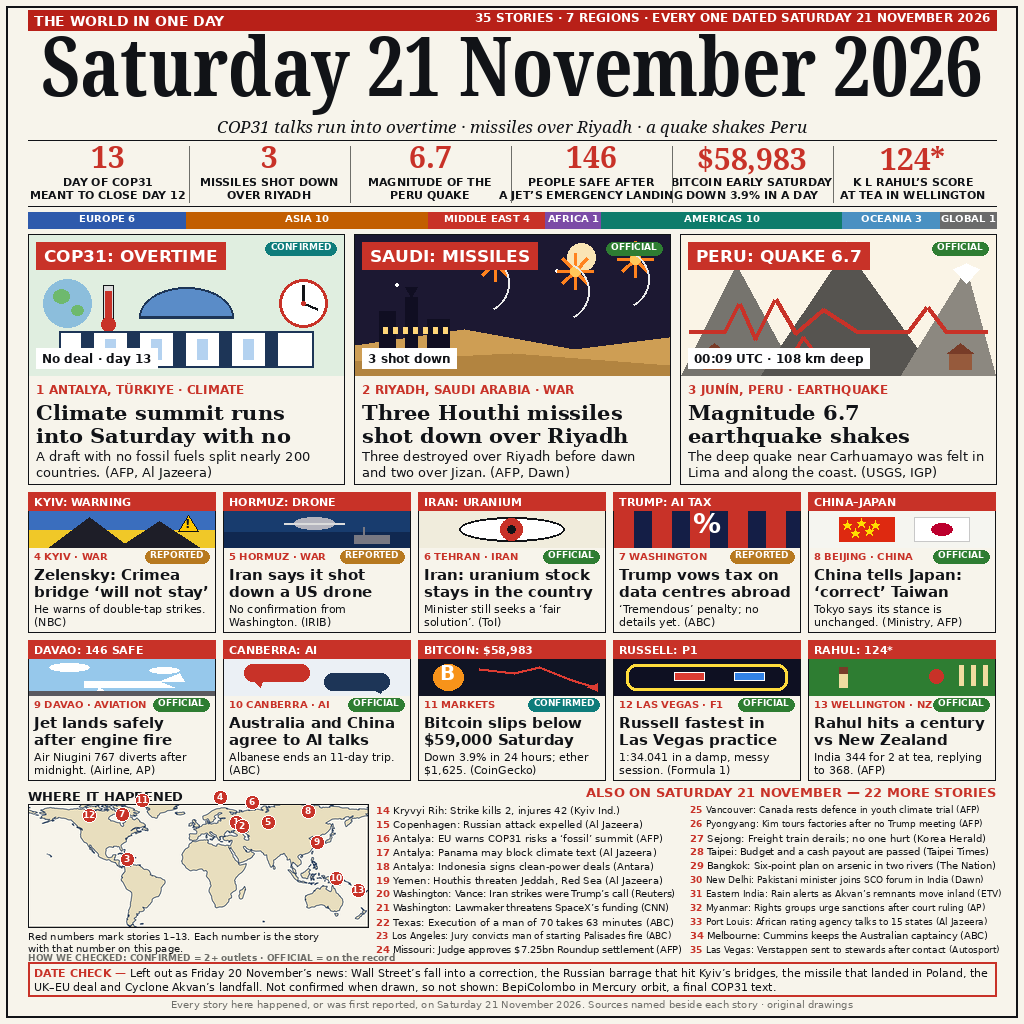
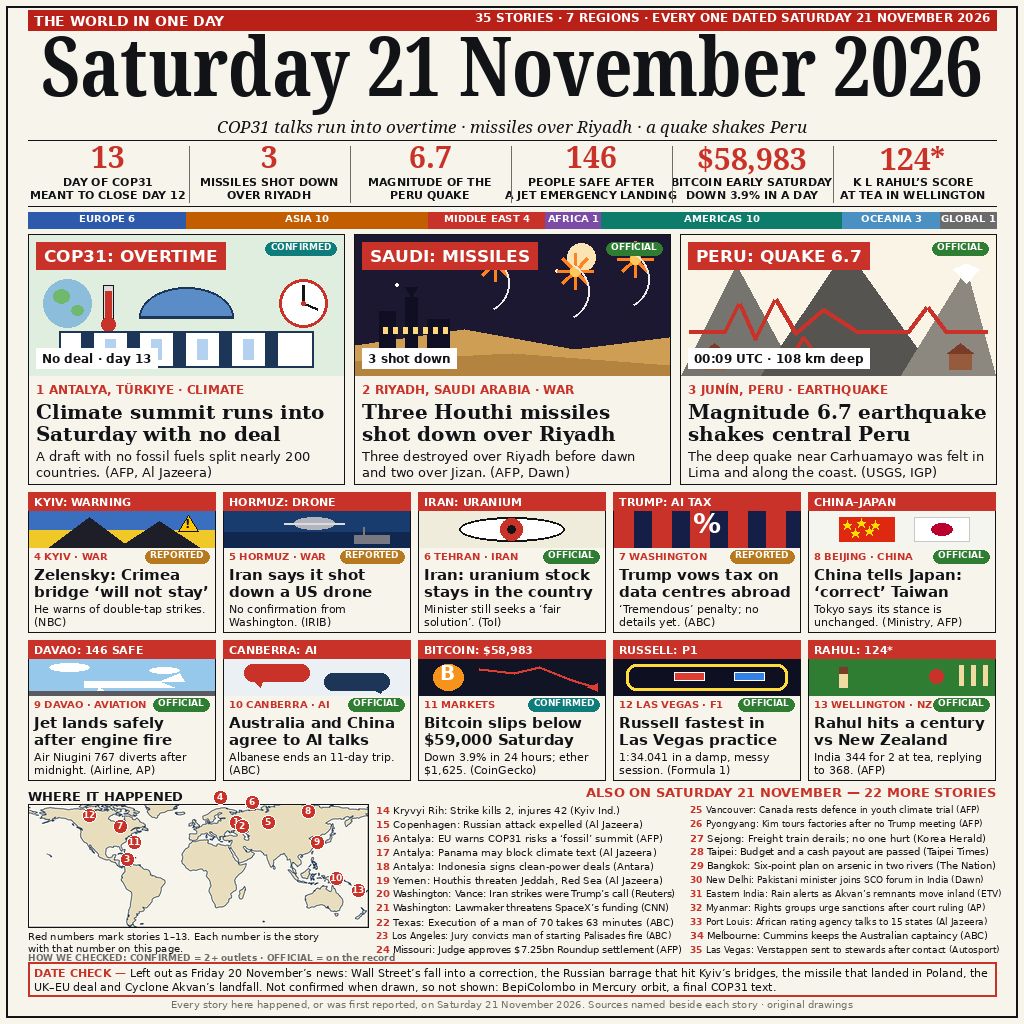
v7.1: hero headlines 20px (no truncation), 146 caption padded, pin 11 to New York

diff --git a/render.py b/render.py
@@ -8,7 +8,8 @@
   items (BepiColombo orbit, final COP31 text).
 - Verification badges OFFICIAL / CONFIRMED / REPORTED + sources on every
   main story. Masthead in Noto Serif ExtraCondensed Bold (auto-fit to 82px).
-  Deterministic. DO NOT SUBMIT before user ACC.
+  Hero headlines at 20px so all three fit two lines whole. Deterministic.
+  DO NOT SUBMIT before user ACC.
 """
 from PIL import Image, ImageDraw, ImageFont
 import math
@@ -339,7 +340,7 @@ NUMBERS = [
     ("13", "DAY OF COP31", "MEANT TO CLOSE DAY 12"),
     ("3", "MISSILES SHOT DOWN", "OVER RIYADH"),
     ("6.7", "MAGNITUDE OF THE", "PERU QUAKE"),
-    ("146", "PEOPLE SAFE AFTER", "A JET\u2019S EMERGENCY LANDING"),
+    ("146", "PEOPLE SAFE AFTER", "A JET EMERGENCY LANDING"),
     ("$58,983", "BITCOIN EARLY SATURDAY", "DOWN 3.9% IN A DAY"),
     ("124*", "K L RAHUL\u2019S SCORE", "AT TEA IN WELLINGTON"),
 ]
@@ -358,8 +359,8 @@ REGIONS = [
 # map pins 1-13 (pixel positions on the 340x123 map, nudged to avoid overlap)
 PINS = [
     (1, 236, 822), (2, 242, 826), (3, 127, 859), (4, 220, 797),
-    (5, 268, 822), (6, 252, 802), (7, 122, 814), (8, 308, 811),
-    (9, 317, 842), (10, 336, 878), (11, 142, 800), (12, 89, 815),
+    (5, 268, 822), (6, 252, 802), (7, 120, 826), (8, 308, 811),
+    (9, 317, 842), (10, 336, 878), (11, 134, 842), (12, 89, 815),
     (13, 358, 890),
 ]
 
@@ -440,7 +441,7 @@ def render():
         stat_chip(d, x + 8, y + 140 - 26, hro["stat"])
         badge(d, x + hw - 8, y + 8, hro["badge"], hro["badge_color"])
         d.text((x + 8, y + 148), hro["loc"], font=F(SANS_B, 12), fill=RED)
-        block(d, x + 8, y + 166, hro["head"], F(SERIF_B, 21), hw - 16, 23, max_lines=2)
+        block(d, x + 8, y + 166, hro["head"], F(SERIF_B, 20), hw - 16, 22, max_lines=2)
         block(d, x + 8, y + 214, hro["body"], F(SANS, 13), hw - 16, 16, max_lines=2)
 
     # 10 tiles (4-13), 2 rows x 5
